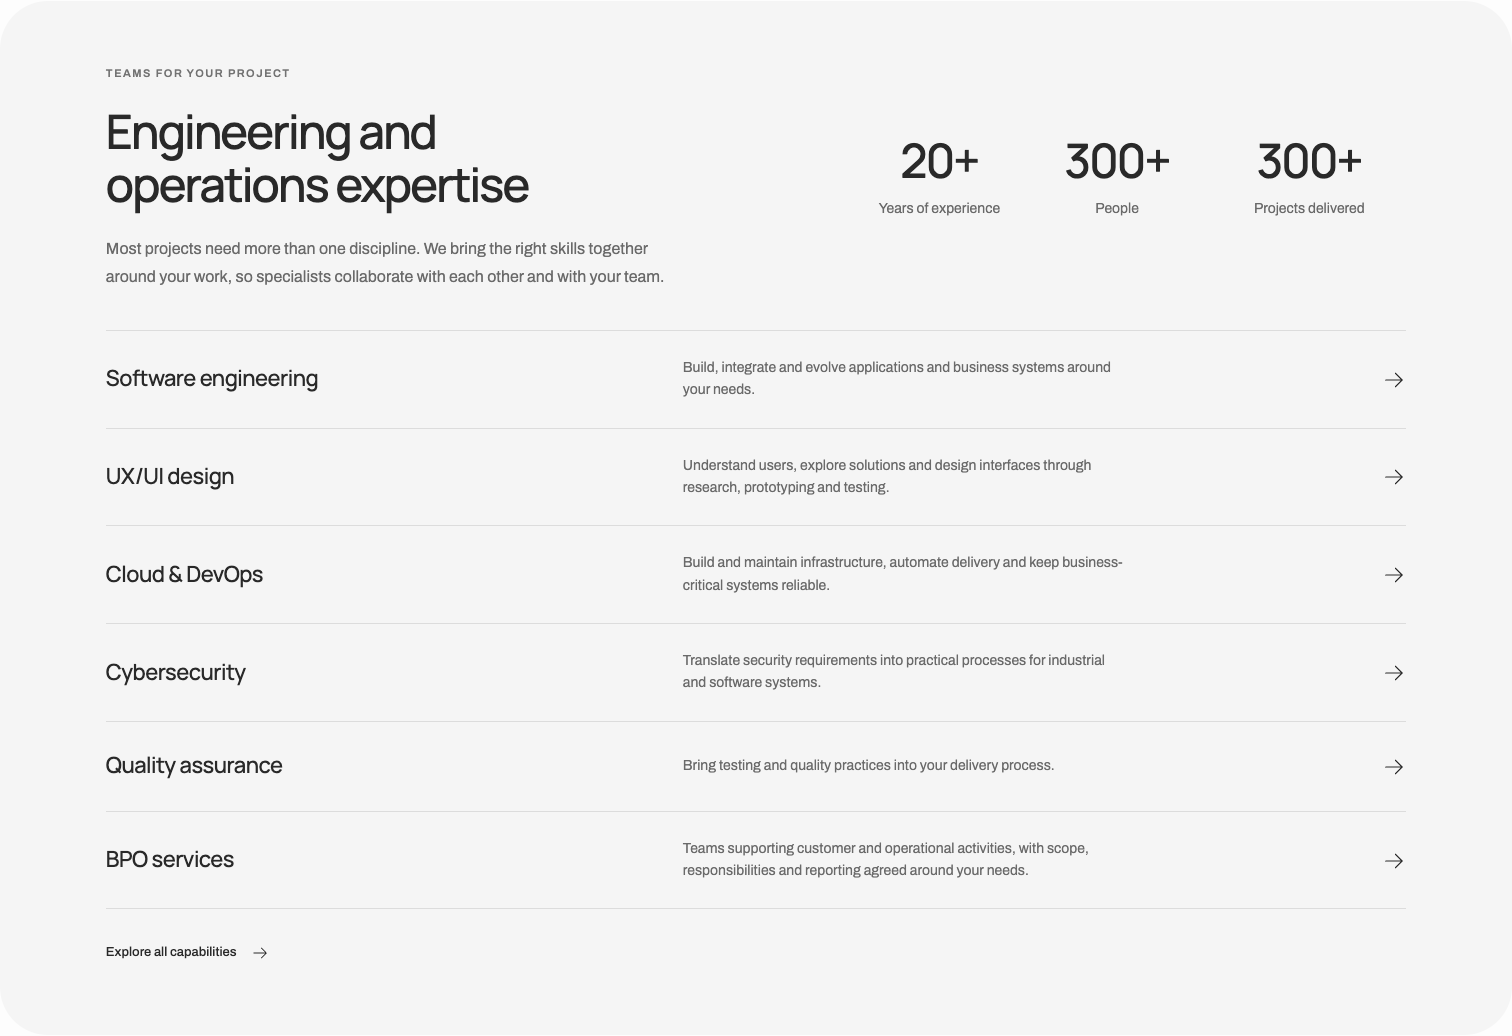
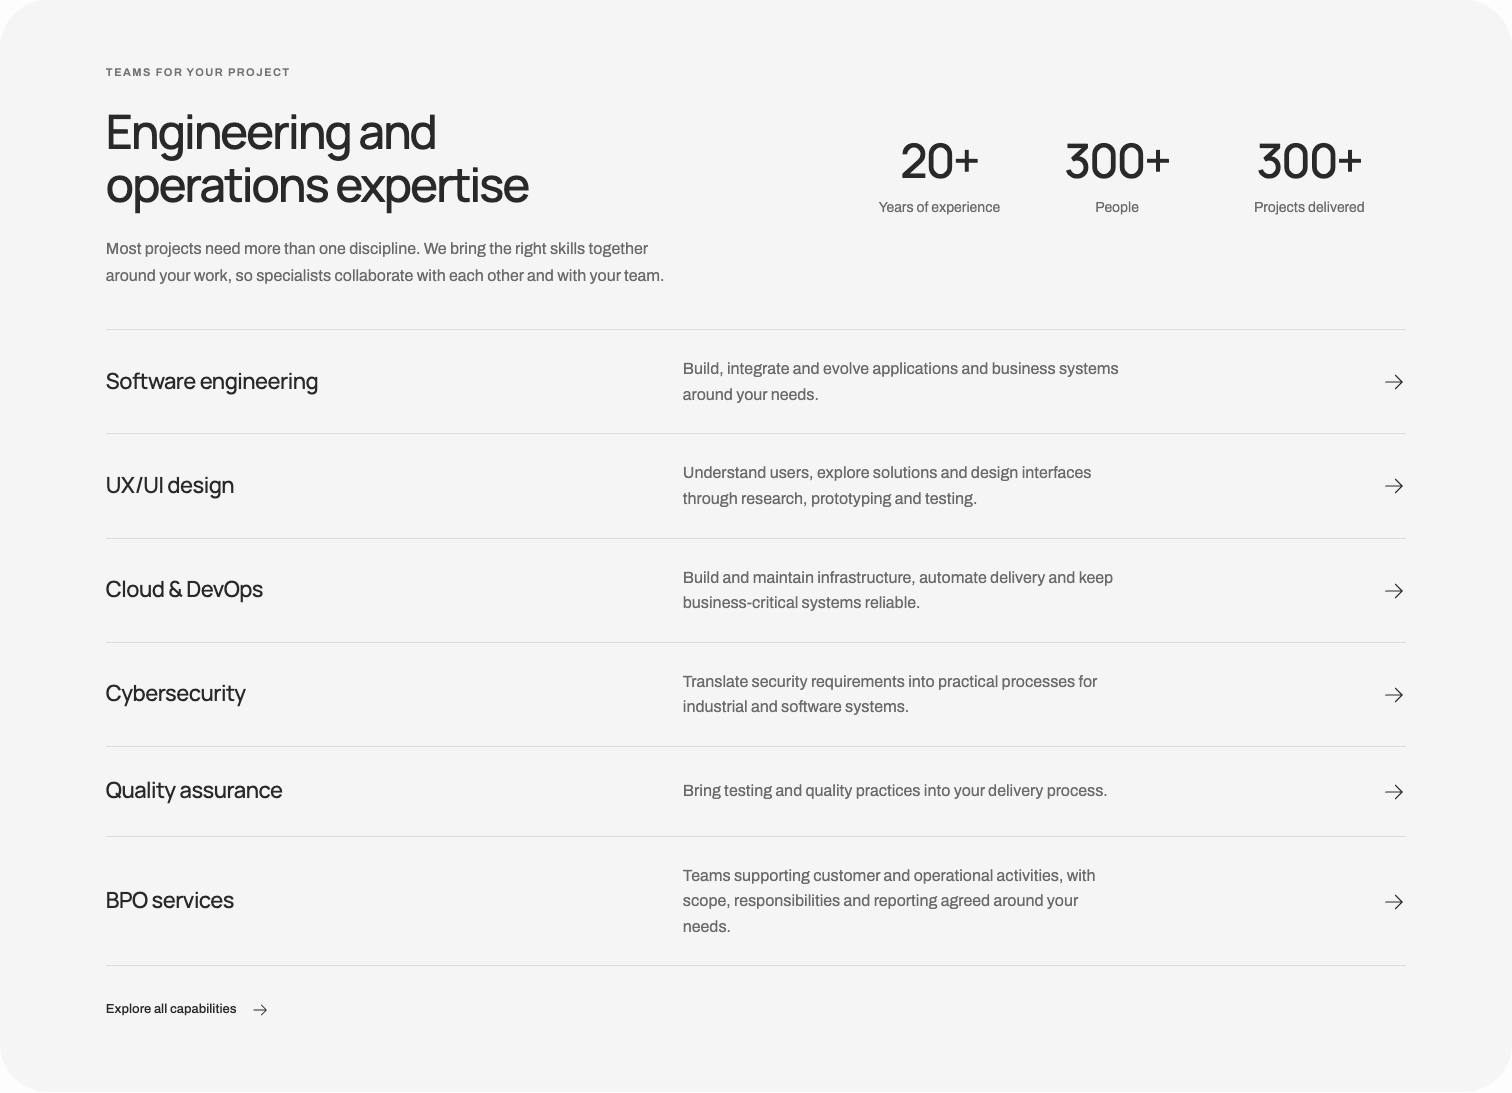
Trial 16px body copy across desktop and mobile

diff --git a/design-library.html b/design-library.html
@@ -27,8 +27,8 @@
 <tr><td data-label="Text style"><span style="font:500 22px/1.15 Manrope">Title</span></td><td data-label="Token"><code>--type-title</code></td><td data-label="Desktop rule">22px</td><td data-label="Mobile rule">22px</td></tr>
 <tr><td data-label="Text style"><span style="font:500 20px/1.15 Manrope">Diagram</span></td><td data-label="Token"><code>--type-diagram</code></td><td data-label="Desktop rule">20px</td><td data-label="Mobile rule">20px</td></tr>
 <tr><td data-label="Text style"><span style="font:400 22px/1.15 Archivo">Quote</span></td><td data-label="Token"><code>--type-quote</code></td><td data-label="Desktop rule">22px</td><td data-label="Mobile rule">22px</td></tr>
-<tr><td data-label="Text style"><span style="font:400 16px/1.15 Archivo">Lead</span></td><td data-label="Token"><code>--type-lead</code></td><td data-label="Desktop rule">16px</td><td data-label="Mobile rule">15px</td></tr>
-<tr><td data-label="Text style"><span style="font:400 16px/1.15 Archivo">Body</span></td><td data-label="Token"><code>--type-body</code></td><td data-label="Desktop rule">16px</td><td data-label="Mobile rule">15px</td></tr>
+<tr><td data-label="Text style"><span style="font:400 16px/1.15 Archivo">Lead</span></td><td data-label="Token"><code>--type-lead</code></td><td data-label="Desktop rule">16px</td><td data-label="Mobile rule">16px</td></tr>
+<tr><td data-label="Text style"><span style="font:400 16px/1.15 Archivo">Body</span></td><td data-label="Token"><code>--type-body</code></td><td data-label="Desktop rule">16px</td><td data-label="Mobile rule">16px</td></tr>
 <tr><td data-label="Text style"><span style="font:400 14px/1.15 Archivo">Small</span></td><td data-label="Token"><code>--type-small</code></td><td data-label="Desktop rule">14px</td><td data-label="Mobile rule">14px</td></tr>
 <tr><td data-label="Text style"><span style="font:400 13px/1.15 Archivo">Action</span></td><td data-label="Token"><code>--type-action</code></td><td data-label="Desktop rule">13px</td><td data-label="Mobile rule">13px</td></tr>
 <tr><td data-label="Text style"><span style="font:400 12px/1.15 Archivo">Caption</span></td><td data-label="Token"><code>--type-caption</code></td><td data-label="Desktop rule">12px</td><td data-label="Mobile rule">12px</td></tr>
@@ -147,7 +147,7 @@
 </dl><details><summary>Full measurements</summary><dl>
 <dt>Margin</dt><dd>0px / 0px 8px</dd>
 <dt>Width</dt><dd>1512px / 374px</dd>
-<dt>Height</dt><dd>6427.97px / 11095.2px</dd>
+<dt>Height</dt><dd>6629.62px / 11813.9px</dd>
 <dt>Top border</dt><dd>0px none rgb(41, 41, 41)</dd>
 <dt>Grid columns</dt><dd>none</dd>
 </dl><code>.site-shell</code></details><a href="index.html">View source page ↗</a></div></article>
@@ -160,7 +160,7 @@
 </dl><details><summary>Full measurements</summary><dl>
 <dt>Margin</dt><dd>0px</dd>
 <dt>Width</dt><dd>1512px / 374px</dd>
-<dt>Height</dt><dd>1034.59px / 1385.23px</dd>
+<dt>Height</dt><dd>1092.22px / 1535.92px</dd>
 <dt>Top border</dt><dd>0px none rgb(41, 41, 41)</dd>
 <dt>Grid columns</dt><dd>none</dd>
 </dl><code>#capabilities</code></details><a href="index.html">View source page ↗</a></div></article>
@@ -173,7 +173,7 @@
 </dl><details><summary>Full measurements</summary><dl>
 <dt>Margin</dt><dd>0px</dd>
 <dt>Width</dt><dd>1300.34px / 329.125px</dd>
-<dt>Height</dt><dd>97.7812px / 131.391px</dd>
+<dt>Height</dt><dd>104.188px / 140.984px</dd>
 <dt>Top border</dt><dd>0px none rgb(41, 41, 41)</dd>
 <dt>Grid columns</dt><dd>556.969px 668.375px 35px / 297.125px 24px</dd>
 </dl><code>.cap-list button</code></details><a href="index.html">View source page ↗</a></div></article>
@@ -212,7 +212,7 @@
 </dl><details><summary>Full measurements</summary><dl>
 <dt>Margin</dt><dd>0px</dd>
 <dt>Width</dt><dd>412.109px / 329.125px</dd>
-<dt>Height</dt><dd>275.844px / 297.531px</dd>
+<dt>Height</dt><dd>285.453px / 307.141px</dd>
 <dt>Top border</dt><dd>0px none rgb(41, 41, 41)</dd>
 <dt>Grid columns</dt><dd>none</dd>
 </dl><code>.insights-grid article</code></details><a href="index.html">View source page ↗</a></div></article>
@@ -225,7 +225,7 @@
 </dl><details><summary>Full measurements</summary><dl>
 <dt>Margin</dt><dd>0px</dd>
 <dt>Width</dt><dd>252.953px / 155.562px</dd>
-<dt>Height</dt><dd>174.953px / 202.328px</dd>
+<dt>Height</dt><dd>187.766px / 221.547px</dd>
 <dt>Top border</dt><dd>0px none rgb(41, 41, 41)</dd>
 <dt>Grid columns</dt><dd>none</dd>
 </dl><code>.footer-location</code></details><a href="index.html">View source page ↗</a></div></article>
@@ -238,7 +238,7 @@
 </dl><details><summary>Full measurements</summary><dl>
 <dt>Margin</dt><dd>0px</dd>
 <dt>Width</dt><dd>425.438px / 329.125px</dd>
-<dt>Height</dt><dd>143.578px / 140.391px</dd>
+<dt>Height</dt><dd>149.984px / 175.578px</dd>
 <dt>Top border</dt><dd>1px solid rgb(222, 222, 222)</dd>
 <dt>Grid columns</dt><dd>339.438px 24px / 243.125px 24px</dd>
 </dl><code>.cap-list button</code></details><a href="home-grid.html">View source page ↗</a></div></article>
@@ -253,7 +253,7 @@
 </dl><details><summary>Full measurements</summary><dl>
 <dt>Margin</dt><dd>0px</dd>
 <dt>Width</dt><dd>383.328px / 329.125px</dd>
-<dt>Height</dt><dd>266.062px / 246.062px</dd>
+<dt>Height</dt><dd>278.875px / 258.875px</dd>
 <dt>Top border</dt><dd>1px solid rgb(220, 220, 220)</dd>
 <dt>Grid columns</dt><dd>none</dd>
 </dl><code>.bos-stage</code></details><a href="ai-bos.html">View source page ↗</a></div></article>
@@ -266,7 +266,7 @@
 </dl><details><summary>Full measurements</summary><dl>
 <dt>Margin</dt><dd>40px 0px 0px / 32px 0px 0px</dd>
 <dt>Width</dt><dd>1300.34px / 329.125px</dd>
-<dt>Height</dt><dd>550.453px / 1412.11px</dd>
+<dt>Height</dt><dd>620.859px / 1604.14px</dd>
 <dt>Top border</dt><dd>0px none rgb(41, 41, 41)</dd>
 <dt>Grid columns</dt><dd>none</dd>
 </dl><code>.bos-applied-case</code></details><a href="ai-bos.html">View source page ↗</a></div></article>
@@ -292,7 +292,7 @@
 </dl><details><summary>Full measurements</summary><dl>
 <dt>Margin</dt><dd>0px</dd>
 <dt>Width</dt><dd>414.766px / 329.125px</dd>
-<dt>Height</dt><dd>202.469px / 216.156px</dd>
+<dt>Height</dt><dd>234.469px / 222.562px</dd>
 <dt>Top border</dt><dd>0px none rgb(41, 41, 41)</dd>
 <dt>Grid columns</dt><dd>none</dd>
 </dl><code>.activity-card</code></details><a href="life-at-yopeso.html">View source page ↗</a></div></article>
@@ -318,7 +318,7 @@
 </dl><details><summary>Full measurements</summary><dl>
 <dt>Margin</dt><dd>0px</dd>
 <dt>Width</dt><dd>522.172px / 329.125px</dd>
-<dt>Height</dt><dd>60.0781px / 82.4688px</dd>
+<dt>Height</dt><dd>63.2812px / 88.875px</dd>
 <dt>Top border</dt><dd>0px none rgb(41, 41, 41)</dd>
 <dt>Grid columns</dt><dd>none</dd>
 </dl><code>.story-milestone</code></details><a href="our-story.html">View source page ↗</a></div></article>

diff --git a/typography.css b/typography.css
@@ -44,7 +44,7 @@ nav button{font-family:var(--font-body);font-weight:var(--weight-medium)}
 .value-rail{font-family:var(--font-body);font-size:var(--type-small);font-weight:var(--weight-medium)}
 @media(max-width:760px){
  :root{--type-display:43px;--type-contact:43px;--type-section:34px;
- --type-body:15px;--tracking-section:-1.4px;--tracking-display:-1.9px}
+ --tracking-section:-1.4px;--tracking-display:-1.9px}
  .hero-invite{font-size:var(--type-caption)}
  .cap-list p,.company-numbers dt{font-size:var(--type-action)}
  .value-rail{font-size:var(--type-action)}
@@ -76,3 +76,8 @@ nav button,.hero-invite,.proof p,.lab-options p,.section-bottom,.contact-context
 
 .hero h1{font-weight:700;max-width:1100px}
 @media(min-width:761px){.hero h1>span{display:block}}
+
+/* Body copy across page templates, including compact card and diagram layouts. */
+p:not(.sr-only, .activity-status), .role-detail article li, .lab-options > div:not(.eyebrow) {
+  font-size: var(--type-body) !important;
+}

diff --git a/design-library.css b/design-library.css
@@ -21,3 +21,5 @@
  .measures td:has(.rule){display:flex;gap:8px}
  .measures td:has(.rule)::before{width:76px}
 }
+
+.radius p { font-size: 16px; }
